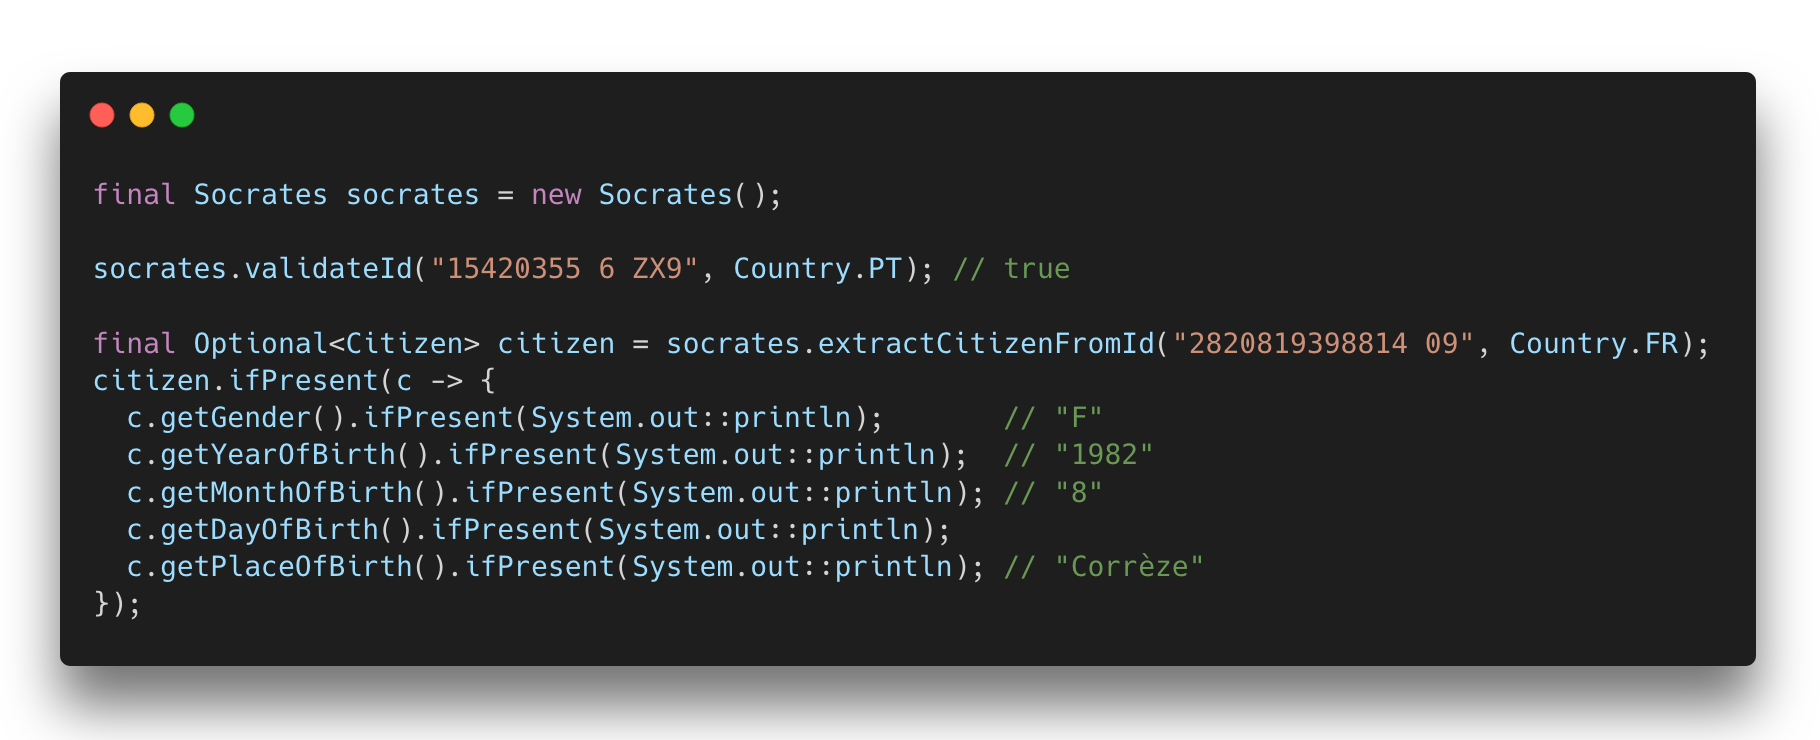
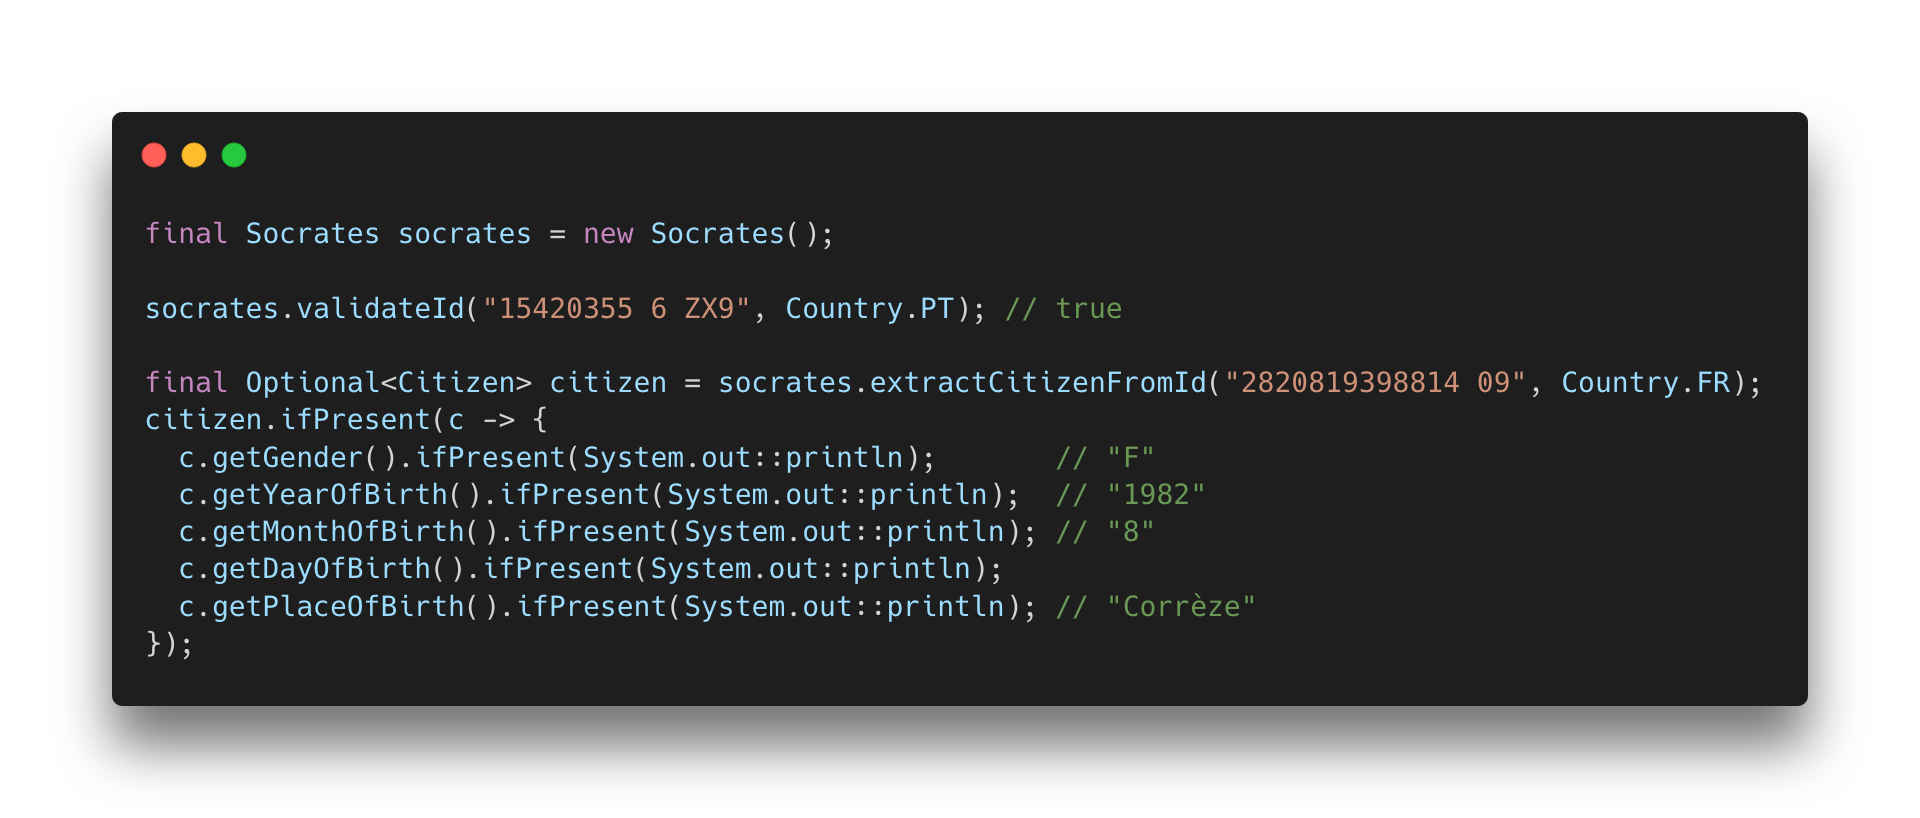
Update example image and license badge (#3)

Changed region(s): [[0.0, 0.0932, 0.9846, 0.9946], [0.5538, 0.5284, 0.6154, 0.5595]]

diff --git a/README.md b/README.md
@@ -4,6 +4,9 @@
 <p align="center">
     <img src="https://raw.githubusercontent.com/reducktion/socrates-java/master/docs/example.png" alt="Usage example" width="800">
 </p>
+<p align="center">
+    <img alt="License" src="https://img.shields.io/github/license/reducktion/socrates">
+</p>
 
 ## Introduction
 This package is a port of the [php package socrates](https://github.com/reducktion/socrates).
